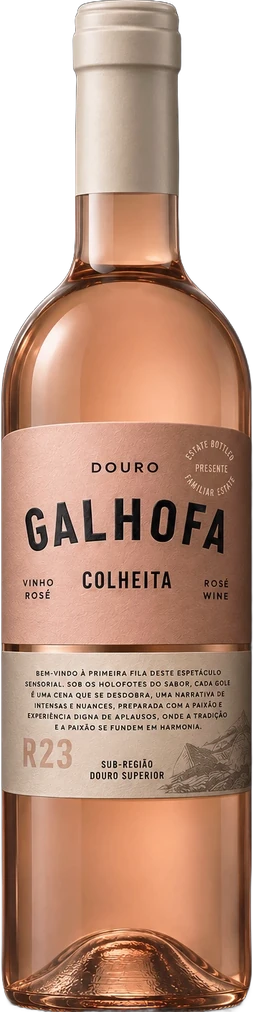
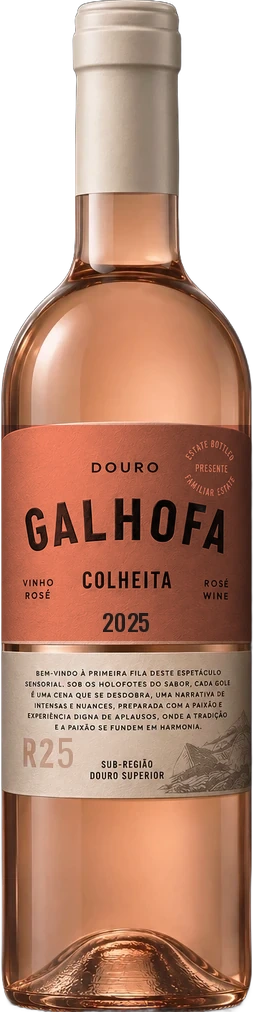
Galhofa 2024/2025 labels on every bottle picture: page photos, wine cards and the Spain/Germany ads (bf9)
The studio shots carried the previous labels (tan band, no vintage, T23/B23/R23). scripts/ads/relabel-galhofa.py
recolours the upper band to the new label colours (from David's photos), prints COLHEITA 2024/2025 and changes the
codes to T24/B25/R25; the ads are rendered again from the corrected cut-out (render-bf.ts), the -50% ad edited.

Claude-Session: https://claude.ai/code/session_01EWtzk875t6rhPAsAmy8fPV

Changed region(s): [[0.0, 0.3982, 0.996, 0.6433], [0.2213, 0.7352, 0.3043, 0.7658]]

diff --git a/scripts/ads/relabel-galhofa.py b/scripts/ads/relabel-galhofa.py
@@ -1,0 +1,155 @@
+# Galhofa labels 2024/2025 (David's photos, 16/11/2026): the studio pack shots carry the previous labels (tan upper band,
+# no vintage, codes T23/B23/R23). This recolours the upper band, prints the vintage under COLHEITA and changes the
+# code's last digit, on each bottle of an image. Usage: python3 -I scripts/ads/relabel-galhofa.py <font.ttf> <in> <out> <kind,x0,x1[,b0,b1,l0,l1[,dx0,dy0,dx1,dy1[,year_x]]]>...
+#   kind: red | white | rose (with "!": keep the code); x0,x1: the bottle's columns in the image.
+# Font: Oswald (Google Fonts, OFL), e.g. https://raw.githubusercontent.com/google/fonts/main/ofl/oswald/Oswald%5Bwght%5D.ttf
+import sys
+import numpy as np
+from PIL import Image, ImageDraw, ImageFont
+
+# Upper band colours of the new labels, from the photos, brought to the studio light (paper of the lower band as reference).
+TARGET = {"red": (214, 172, 160), "white": (204, 146, 100), "rose": (212, 112, 84)}
+YEAR = {"red": "2024", "white": "2025", "rose": "2025"}
+DIGIT = {"red": "4", "white": "5", "rose": "5"}
+
+
+def runs(mask):
+    out, start = [], None
+    for i, v in enumerate(list(mask) + [False]):
+        if v and start is None:
+            start = i
+        elif not v and start is not None:
+            out.append((start, i - 1))
+            start = None
+    return out
+
+
+def relabel(img, font_path, kind, x0, x1, rows=None, code=True, digit=None, mid_x=None):
+    a = np.asarray(img).astype(float)
+    rgb, alpha = a[..., :3], a[..., 3]
+    L = rgb.mean(-1)
+    w = x1 - x0
+    cx0, cx1 = x0 + int(w * 0.18), x0 + int(w * 0.82)  # middle of the bottle, away from the dark edges
+    rowL = L[:, cx0:cx1].mean(1)
+    solid = alpha[:, cx0:cx1].min(1) > 200
+    # The label: the first long light run on the bottle (upper band), then a thin dark line, then the lower band.
+    if rows:
+        # Given: upper band b0..b1 and lower band l0..l1 (bright glass of white and rosé bottles fools the detection).
+        b0, b1, l0, l1 = rows
+    else:
+        # The label: upper band from its first light row down to the thin black line; the lower band after that line.
+        ok = np.where((rowL > 95) & solid)[0]
+        if not len(ok):
+            raise SystemExit(f"{kind}: label not found")
+        b0 = int(ok[0])
+        sep = [y for y in range(b0 + 60, len(rowL)) if rowL[y] < 40]
+        if not sep:
+            raise SystemExit(f"{kind}: label line not found")
+        b1 = sep[0] - 1
+        l0 = next(y for y in range(sep[0], len(rowL)) if rowL[y] > 95)
+        l1 = next((y for y in range(l0, len(rowL)) if rowL[y] < 60 or not solid[y]), len(rowL)) - 1
+    band = rgb[b0 : b1 + 1, x0:x1]
+    bandL = L[b0 : b1 + 1, x0:x1]
+    paper = np.median(bandL[:, int(w * 0.2) : int(w * 0.5)])
+    t = np.array(TARGET[kind], float)
+    new = bandL[..., None] * (t / paper)[None, None, :]
+    m = alpha[b0 : b1 + 1, x0:x1] > 0
+    band[m] = np.clip(new[m], 0, 255)
+    rgb[b0 : b1 + 1, x0:x1] = band
+
+    # COLHEITA: the last text line of the upper band (dark rows in the middle columns).
+    # Text = clearly darker than its column (the band is lit from the left, so compare within each column).
+    colbg = np.median(bandL, axis=0)
+    rel = bandL / np.maximum(colbg[None, :], 1)
+    dark = (rel[:, cx0 - x0 : cx1 - x0] < 0.7).sum(1) > 3
+    lines = [(s + b0, e + b0) for s, e in runs(dark) if e - s >= 4]
+    c0, c1 = lines[-1]
+    cols = np.where((rel[c0 - b0 : c1 - b0 + 1] < 0.7).sum(0) > 1)[0]
+    mid = x0 + (cols[0] + cols[-1]) / 2
+    if cols[-1] - cols[0] > 0.6 * w:  # caught the small side texts too: COLHEITA sits in the middle
+        mid = x0 + w / 2
+    if mid_x is not None:
+        mid = mid_x
+    h = c1 - c0 + 1
+
+    out = Image.fromarray(np.dstack([rgb, alpha]).astype("uint8"), "RGBA")
+    d = ImageDraw.Draw(out)
+    # Size from the band height (COLHEITA is about 8% of it), so it is the same on every bottle.
+    h = max(h, round((b1 - b0 + 1) * 0.082))
+    f = ImageFont.truetype(font_path, max(8, round(h * 1.32)))
+    f.set_variation_by_name("Medium")
+    tw = d.textlength(YEAR[kind], font=f)
+    top = c1 + max(2, round(h * 0.3))
+    if top + h + 2 > b1:
+        raise SystemExit(f"{kind}: no room for the vintage")
+    d.text((mid - tw / 2, top), YEAR[kind], font=f, fill=(32, 28, 28, 255), anchor="la")
+
+    if not code:  # the code is hidden (e.g. under a price badge): leave it
+        return out
+    # The code (T23...): large light digits at the left of the lower band. Its last digit is replaced.
+    a2 = np.asarray(out).astype(float)
+    L2 = a2[..., :3].mean(-1)
+    if digit:  # given: the old last digit's box (small or soft pictures)
+        dx0, y0, dx1, y1 = digit
+    else:
+        dx0, dx1, y0, y1 = find_code(L2, l0, l1, x0, w, h, kind)
+    out = repaint_digit(out, a2, L2, dx0, dx1, y0, y1, DIGIT[kind], font_path)
+    return out
+
+
+def find_code(L2, l0, l1, x0, w, h, kind):
+    zone = L2[l0 : l1 + 1, x0 + int(w * 0.04) : x0 + int(w * 0.36)]
+    zrel = zone / np.maximum(np.median(zone, axis=0)[None, :], 1)
+    # The code is printed light: look for it with a tighter threshold first, a looser one on small or soft pictures.
+    for thr in (0.9, 0.94, 0.96):
+        ink = zrel < thr
+        rr = [r for r in runs(ink.sum(1) > 2) if r[1] - r[0] > h]  # the code is taller than COLHEITA
+        if rr:
+            break
+    if not rr:
+        raise SystemExit(f"{kind}: code not found")
+    y0, y1 = rr[0][0] + l0, rr[0][1] + l0
+    zx0 = x0 + int(w * 0.04)
+    cc = runs((zrel[y0 - l0 : y1 - l0 + 1] < thr).sum(0) > max(1, (y1 - y0) // 8))
+    cc = [c for c in cc if c[1] - c[0] >= 2]
+    dx0, dx1 = cc[-1][0] + zx0 - 1, cc[-1][1] + zx0 + 1
+    return dx0, dx1, y0, y1
+
+
+def repaint_digit(out, a2, L2, dx0, dx1, y0, y1, digit, font_path):
+    blk = a2[y0 : y1 + 1, dx0 : dx1 + 1, :3]
+    bl = blk.mean(-1)
+    ink_rgb = np.median(blk[bl <= np.percentile(bl, 25)], axis=0)
+    dw = dx1 - dx0 + 1
+    # Paper over the old digit: the paper just right of it, same rows.
+    a2[y0 - 1 : y1 + 2, dx0 : dx1 + 1] = a2[y0 - 1 : y1 + 2, dx1 + 2 : dx1 + 2 + dw]
+    out = Image.fromarray(a2.astype("uint8"), "RGBA")
+    d = ImageDraw.Draw(out)
+    # Size the new digit so its height matches the old one.
+    size = 4
+    while True:
+        f2 = ImageFont.truetype(font_path, size + 1)
+        f2.set_variation_by_name("Regular")
+        bb = d.textbbox((0, 0), digit, font=f2)
+        if bb[3] - bb[1] > (y1 - y0 + 1):
+            break
+        size += 1
+    f2 = ImageFont.truetype(font_path, size)
+    f2.set_variation_by_name("Regular")
+    bb = d.textbbox((0, 0), digit, font=f2)
+    d.text((dx0 - bb[0] + (dw - (bb[2] - bb[0])) / 2, y0 - bb[1]), digit, font=f2, fill=tuple(int(v) for v in ink_rgb) + (255,))
+    return out
+
+if __name__ == "__main__":
+    font, src, dst, *bottles = sys.argv[1:]
+    img = Image.open(src).convert("RGBA")
+    for b in bottles:
+        kind, *nums = b.split(",")
+        n = [int(v) for v in nums]
+        # "red!" = leave the code alone (covered by something in the picture).
+        # Optional after the rows: the old digit's box (dx0,dy0,dx1,dy1), then the vintage's centre x.
+        img = relabel(img, font, kind.rstrip("!"), n[0], n[1], n[2:6] if len(n) >= 6 else None, code=not kind.endswith("!"), digit=n[6:10] if len(n) >= 10 else None, mid_x=n[10] if len(n) >= 11 else None)
+    if dst.lower().endswith((".jpg", ".jpeg")) or Image.open(src).mode != "RGBA":
+        img = img.convert("RGB")
+    img.save(dst, quality=92)
+    print(dst)
